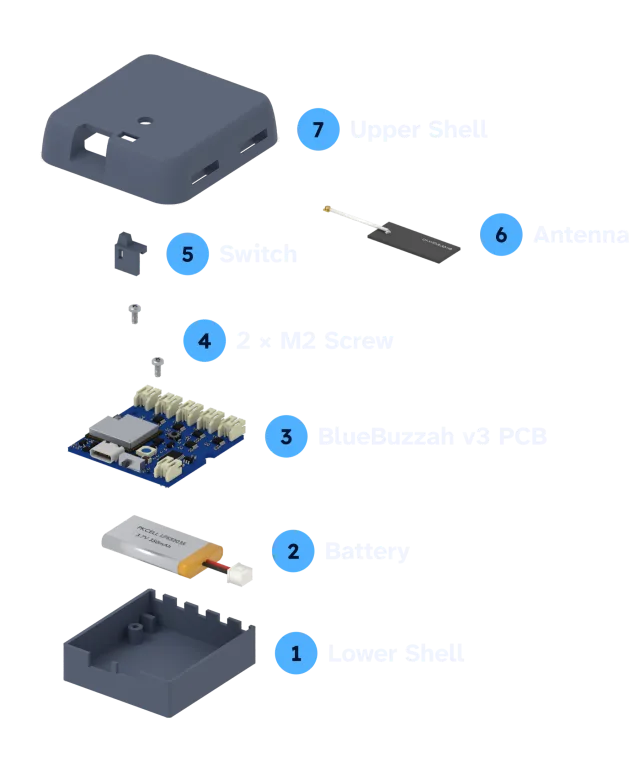
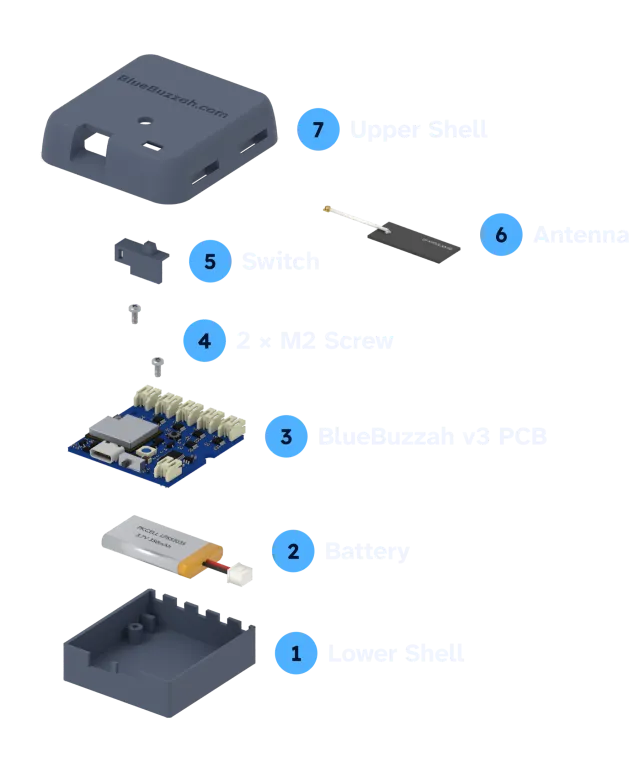
docs: case images for the moved switch and the recessed BlueBuzzah.com
The upper shell now has BlueBuzzah.com recessed into its top and the switch
slot moved toward the front-right edge; the printed switch is a wider part with
a solid front and a centered knob. Re-render the four case images, add a
switch-fitted image to step 7 of Close the case, and update the alt text for
the upper shell and the switch.

diff --git a/src/docs/case.md b/src/docs/case.md
@@ -28,7 +28,7 @@ figure:
 
 ### Upper shell (7)
 
-<Shot src="/docs/img/upper-shell" alt="The upper shell: a rounded cover with a large USB-C opening at the front left, a small slot and a round window on top, and strap loops in each side" />
+<Shot src="/docs/img/upper-shell" alt="The upper shell: a rounded cover with a large USB-C opening at the front left, BlueBuzzah.com set into the top, a round window, a small slot toward the front right, and strap loops in each side" />
 
 The upper shell presses on with a light compression fit. It needs no fasteners.
 
@@ -39,7 +39,7 @@ The upper shell presses on with a light compression fit. It needs no fasteners.
 
 ### Switch (5)
 
-<Shot src="/docs/img/switch" alt="The printed switch: a small block with a raised knob on top and a hooked foot" />
+<Shot src="/docs/img/switch" alt="The printed switch: a wide block with a solid front and a raised knob centered on top, and a shorter tab at one end with a small window that fits over the board switch's lever" />
 
 The board's slide switch is tiny. The printed switch fits over its lever and reaches up through the roof slot, so you can work it from outside.
 
@@ -62,7 +62,10 @@ Do this once per glove, with the board, battery and antenna already working from
 4. **Board.** Lower the board onto the 2 standoffs, with the USB-C port and slide switch at the front-wall notches and the motor ports at the back-wall notches. Screw it down with the 2 M2×5 pan-head screws (4).
 5. **Tactor wire leads.** Plug each lead back into its port, as in the [finger-to-port table](/docs/wiring#which-finger-goes-in-which-port). Run each out through its own back-wall notch, without crossing or pinching another.
 6. **Antenna.** Check that the antenna (6) is still plugged into the ESP32-S3 module. Lay it and its cable inside so nothing is pinched when the case closes.
-7. **Switch.** Fit the printed switch (5) over the slide switch's lever.
+7. **Switch.** Hook the printed switch (5) over the lower shell's front wall, beside the USB-C port, with its knob pointing up. Its solid front goes outside the wall, and the small window in its tab fits over the slide switch's lever. The board is switched off, so the printed switch sits slid toward the USB-C port.
+
+   <Shot src="/docs/img/case-switch-fitted" alt="The lower shell with the board screwed in and the printed switch fitted, shown in a lighter shade. The switch's solid front hangs outside the lower shell's front wall beside the USB-C port, its knob points up, and the window in its tab sits over the board's slide switch." />
+
 8. **Upper shell.** Press the upper shell (7) onto the lower shell. Guide the switch's knob up through the roof slot. Check that the USB-C port and status light line up with their openings. Slide the switch to check that it turns the glove on and off through the case.
 9. **Mount.** Thread a strap or small zip ties through the strap loops and fasten the case to the back of the glove. Leave each lead enough slack for a full curl of the fingers.
 
